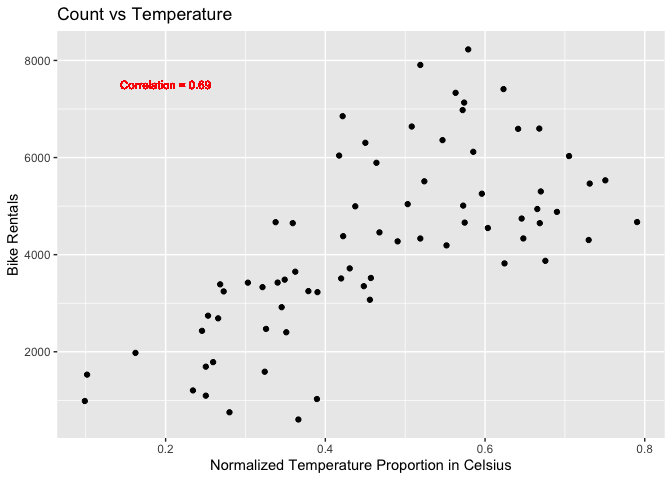
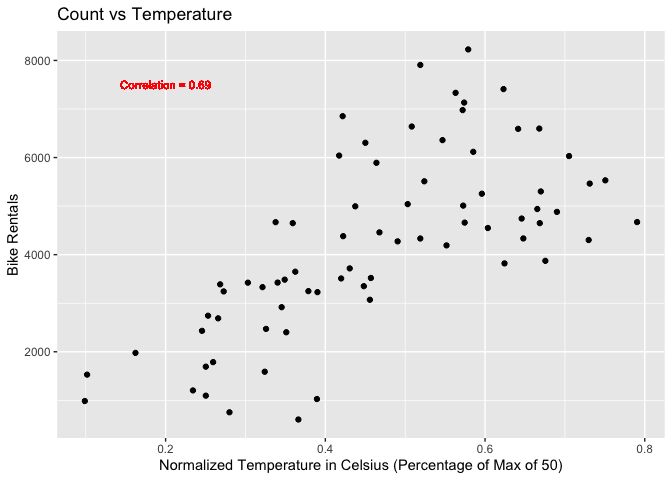
Completed Two Models

Changed region(s): [[0.25, 0.9375, 0.8438, 1.0]]

diff --git a/Project_2.md b/Project_2.md
@@ -101,9 +101,9 @@ the day is neither a weekend nor holiday. Weathersit has 4 levels
 increasing in intensity: 1 - clear or few clouds, 2 - Mist or cloudy, 3
 -light snow or light rain with some thunderstorms and scattered clouds,
 4 - Heavy Rain/Sleet/Snow/Thunderstorms (More severe). Atemp is a
-derived value of normalized feeling temperature. Hum is normalized
-humidity values divided to 100 (max). Windspeed is normalized wind speed
-values divided to 67 (max).
+derived value of normalized feeling temperature out of max 50. Hum is
+normalized humidity values divided to 100 (max). Windspeed is normalized
+wind speed values divided to 67 (max).
 
 # Data Split
 
@@ -185,7 +185,7 @@ wind + geom_point() + labs(title = "Count vs Wind Speed", x = "Wind Speed (Perce
 
 ``` r
 temp <- ggplot(bikeTrain, aes(x = atemp, y = cnt))
-temp + geom_point() + labs(title = "Count vs Temperature", x = "Normalized Temperature Proportion in Celsius", y = "Bike Rentals") + geom_text(x = .2, y = 7500, size = 3, label = paste0("Correlation = ", round(cor(bikeTrain$atemp, bikeTrain$cnt), 2)), col = "red")
+temp + geom_point() + labs(title = "Count vs Temperature", x = "Normalized Temperature in Celsius (Percentage of Max of 50)", y = "Bike Rentals") + geom_text(x = .2, y = 7500, size = 3, label = paste0("Correlation = ", round(cor(bikeTrain$atemp, bikeTrain$cnt), 2)), col = "red")
 ```
 
 ![](Project_2_files/figure-gfm/plots-2.png)<!-- -->
@@ -198,3 +198,42 @@ humidity + geom_point() + labs(title = "Count vs Humidity", x = "Normalized Humi
 ![](Project_2_files/figure-gfm/plots-3.png)<!-- -->
 
 # Modeling
+
+``` r
+bikeReg <- train(cnt ~ ., data = bikeTrain, method = "rpart",
+                 trControl = trainControl(method = "LOOCV"), 
+                 tuneLength = 10)
+bikeReg
+```
+
+    ## CART 
+    ## 
+    ## 73 samples
+    ##  8 predictor
+    ## 
+    ## No pre-processing
+    ## Resampling: Leave-One-Out Cross-Validation 
+    ## Summary of sample sizes: 72, 72, 72, 72, 72, 72, ... 
+    ## Resampling results across tuning parameters:
+    ## 
+    ##   cp          RMSE      Rsquared     MAE      
+    ##   0.00000000  1161.198  0.604378615   918.3104
+    ##   0.06216995  1327.108  0.479301477  1098.4427
+    ##   0.12433990  1312.382  0.490098311  1090.4863
+    ##   0.18650985  1312.382  0.490098311  1090.4863
+    ##   0.24867980  1312.382  0.490098311  1090.4863
+    ##   0.31084975  1312.382  0.490098311  1090.4863
+    ##   0.37301970  1312.382  0.490098311  1090.4863
+    ##   0.43518965  1312.382  0.490098311  1090.4863
+    ##   0.49735960  1312.382  0.490098311  1090.4863
+    ##   0.55952955  1975.454  0.008787218  1766.8788
+    ## 
+    ## RMSE was used to select the optimal model using the smallest value.
+    ## The final value used for the model was cp = 0.
+
+``` r
+plot(bikeReg$finalModel)
+text(bikeReg$finalModel)
+```
+
+![](Project_2_files/figure-gfm/model%201-1.png)<!-- -->
